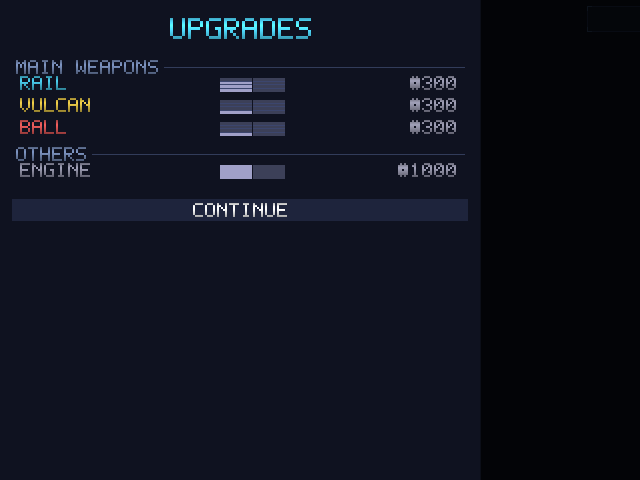
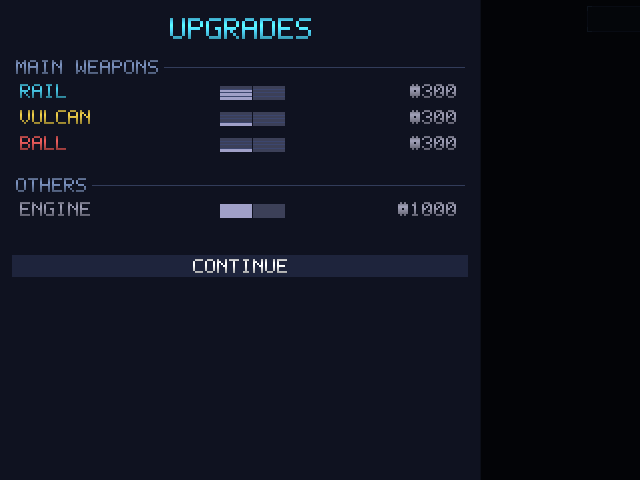
v0.9.460: more breathing room in the shop list
Spread the shop upgrade options: ROW_H 22->26 (more room per option),
CAT_HEADER_H 16->24 (more gap between a category title/name and its entries),
CAT_GAP 5->16 (more separation between categories). Applied to both the
software and GPU draw paths; the list still ends well within the screen.

diff --git a/pewpew.py b/pewpew.py
@@ -140,7 +140,7 @@ def _web_is_touch():
 # features, major for big-rewrites. Skipping the bump means the next user
 # sees the same number and can't tell if they're on the latest build.
 # ──────────────────────────────────────────────────────────────────────────
-VERSION = "0.9.459"
+VERSION = "0.9.460"
 
 # ──────────────────────────────────────────────────────────────────────────
 # HUD layout suppression
@@ -23340,13 +23340,13 @@ class ShopScreen:
         BAR_X = HUD_X - 260      # 220
         BAR_W = 130
         COST_RIGHT = HUD_X - 24
-        ROW_H = 22
+        ROW_H = 26
         # Category chrome — every group gets a tiny header in muted slate
         # plus a 1-px hairline trailing across the row, then the items
         # render below. Gap between groups visually separates them
         # without committing real container chrome (rounded panels).
-        CAT_HEADER_H = 16
-        CAT_GAP = 5
+        CAT_HEADER_H = 24
+        CAT_GAP = 16
         CAT_HEADER_COLOR = (110, 130, 170)
         CAT_HAIRLINE_COLOR = (50, 60, 90)
         list_top = 60
@@ -23543,9 +23543,9 @@ class ShopScreen:
         BAR_X = HUD_X - 260
         BAR_W = 130
         COST_RIGHT = HUD_X - 24
-        ROW_H = 22
-        CAT_HEADER_H = 16
-        CAT_GAP = 5
+        ROW_H = 26
+        CAT_HEADER_H = 24
+        CAT_GAP = 16
         CAT_HEADER_COLOR = (110, 130, 170)
         CAT_HAIRLINE_COLOR = (50, 60, 90)
         list_top = 60
